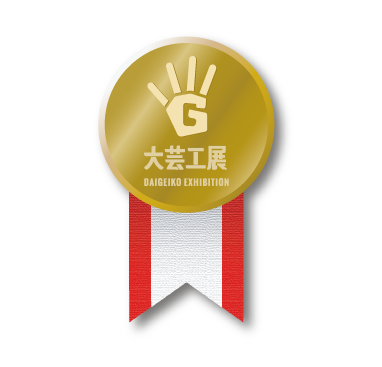
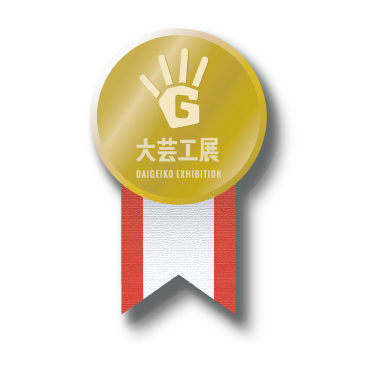
:recycle:a little fixed

Changed region(s): [[0.2304, 0.0599, 0.7199, 0.9292]]

diff --git a/Tablet.css b/Tablet.css
@@ -1,4 +1,4 @@
-@media screen and (min-width: 560px) and (max-width: 960px){
+@media screen and (min-width: 560px) and (max-width: 1024px){
   * {
   margin: 0;
   padding: 0;
@@ -96,12 +96,13 @@ h1 {
   grid-row-gap: 1%;
   grid-column-gap: 1%;
   position: relative;
-  grid-template-rows: 32.6666% 32.6666% 32.6666%;
-  grid-template-columns: 24.25% 24.25% 24.25% 24.25%;
+	grid-template-rows: 24.25% 24.25% 24.25% 24.25%;
+  grid-template-columns: 	32.6666% 32.6666% 32.6666%;
   grid-template-areas:
-    "area1 area3 area5 area5"
-    "area1 area4 area5 area5"
-    "area2 area4 area6 area7";
+    "area5 area5 area6"
+    "area5 area5 area7"
+		"area3 area4 area4"
+		"area1 area1 area2";
 }
 .grid-container p {
 
@@ -853,6 +854,13 @@ div.art7 {
   width: 120px;
   padding: 10px 17px;
 }
+.award{
+  width: 70px;
+  position: absolute;
+  z-index: 5;
+  top: 0;
+  left: -10px;
+}
 
 #about {
   display: flex;
@@ -1049,7 +1057,7 @@ div .look {
 .judge-art3 {
   margin: 0 10px;
   text-align: center;
-}
+}1
 .judge-art1 img,
 .judge-art2 img,
 .judge-art3 img{
@@ -1062,7 +1070,7 @@ div .look {
   justify-content: center;
   align-items: center;
   position: relative;
-  height: 200%;
+  height: 150%;
 }
 .message-cover {
   width: 70%;
@@ -1149,21 +1157,30 @@ div .look {
   display: grid;
   position: relative;
   height: 100%;
-  grid-template-rows: 7% 5% 5% 4% 4% 4% 4% 4% 4% 4% 4% 4%;
+	grid-template-rows: 5% 4% 4% 3% 3% 3% 3% 3% 3% 3% 3% 3% 3% 3% 3% 3% 3% 3% 3% 3% 3%;
   grid-template-columns: 25% 25% 25% 25%;
   grid-template-areas:
     "gold1 gold1 gold1 gold1"
     "silver1 silver1 silver2 silver2"
     "silver3 silver3 silver4 silver4"
-    "n1 n2 n3 n4"
-    "n5 n6 n7 n8"
-    "n9 n10 n11 n12"
-    "n13 n14 n15 n16"
-    "n17 n18 n19 n20"
-    "n21 n22 n23 n24"
-    "n25 n26 n27 n28"
-    "n29 n30 n31 n32"
-    "n33 n34 n35 n36";
+		"n1 n1 n2 n2"
+    "n3 n3 n4 n4"
+    "n5 n5 n6 n6"
+		"n7 n7 n8 n8"
+		"n9 n9 n10 n10"
+    "n11 n11 n12 n12"
+    "n13 n13 n14 n14"
+		"n15 n15 n16 n16"
+		"n17 n17 n18 n18"
+    "n19 n19 n20 n20"
+    "n21 n21 n22 n22"
+		"n23 n23 n24 n24"
+		"n25 n25 n26 n26"
+    "n27 n27 n28 n28"
+    "n29 n29 n30 n30"
+		"n31 n31 n32 n32"
+		"n33 n33 n34 n34"
+    "n35 n35 n36 n36";
 }
 .area-gold1 {
   grid-area: gold1;
@@ -1241,9 +1258,81 @@ div .look {
 .area-n12 {
   grid-area: n12;
 }
+.area-n13 {
+  grid-area: n13;
+}
+.area-n14 {
+  grid-area: n14;
+}
+.area-n15 {
+  grid-area: n15;
+}
+.area-n16 {
+  grid-area: n16;
+}
+.area-n17 {
+  grid-area: n17;
+}
+.area-n18 {
+  grid-area: n18;
+}
+.area-n19 {
+  grid-area: n19;
+}
+.area-n20 {
+  grid-area: n20;
+}
+.area-n21 {
+  grid-area: n21;
+}
+.area-n22 {
+  grid-area: n22;
+}
+.area-n23 {
+  grid-area: n23;
+}
+.area-n24 {
+  grid-area: n24;
+}
+.area-n25 {
+  grid-area: n25;
+}
+.area-n26 {
+  grid-area: n26;
+}
+.area-n27 {
+  grid-area: n27;
+}
+.area-n28 {
+  grid-area: n28;
+}
+.area-n29 {
+  grid-area: n29;
+}
+.area-n30 {
+  grid-area: n30;
+}
+.area-n31 {
+  grid-area: n31;
+}
+.area-n32 {
+  grid-area: n32;
+}
+.area-n33 {
+  grid-area: n33;
+}
+.area-n34 {
+  grid-area: n34;
+}
+.area-n35 {
+  grid-area: n35;
+}
+.area-n36 {
+  grid-area: n36;
+}
 .supporters-container {
   color: #182987;
-  font-size: 10px;
+  font-size: 14px;
   text-align: center;
   align-items: center;
 }

diff --git a/Computer.css b/Computer.css
@@ -1,4 +1,4 @@
-@media screen and (min-width:960px){
+@media screen and (min-width:1024px){
   * {
   margin: 0;
   padding: 0;
@@ -853,6 +853,13 @@ div.art7 {
   width: 120px;
   padding: 10px 17px;
 }
+.award{
+  width: 135px;
+  position: absolute;
+  z-index: 5;
+  top: 0;
+  left: -20px;
+}
 
 #about {
   display: flex;
@@ -1062,7 +1069,7 @@ div .look {
   justify-content: center;
   align-items: center;
   position: relative;
-  height: 100%;
+  height: 150%;
 }
 .message-cover {
   width: 60%;
@@ -1109,7 +1116,7 @@ div .look {
 }
 .cooperation-cover {
   height: 100%;
-  width: 60%;
+  width: 70%;
   left: 50%;
   object-fit: cover;
   position: relative;
@@ -1132,7 +1139,7 @@ div .look {
 }
 .cooperation-list .cooperation-caption p {
   color: #182987;
-  font-size: 16px;
+  font-size: 14px;
   font-family: "ヒラギノ角ゴ ProN W3";
   text-align: justify;
   text-justify: inter-ideograph;

diff --git a/index.html b/index.html
@@ -275,6 +275,7 @@
 
             <div class="works-cover">
               <div class="cover-content-container">
+                <img src="images/aikon1.png" class="award" alt="logo-white">
                 <div class="cover-image-wrap">
                   <div class="cover-image"><img src="images/works1.png"></div>
                 </div>
@@ -289,6 +290,7 @@
 
             <div class="works-cover">
               <div class="cover-content-container">
+                <img src="images/aikon2.png" class="award" alt="logo-white">
                 <div class="cover-image-wrap">
                   <div class="cover-image"><img src="images/works2.png"></div>
                 </div>

diff --git a/Smartphone.css b/Smartphone.css
@@ -903,6 +903,14 @@ div.art7 {
   width: 120px;
   padding: 10px 17px;
 }
+.award{
+  width: 135px;
+  position: absolute;
+  z-index: 5;
+  top: 0;
+  left: -20px;
+}
+
 
 #about {
   display: flex;
